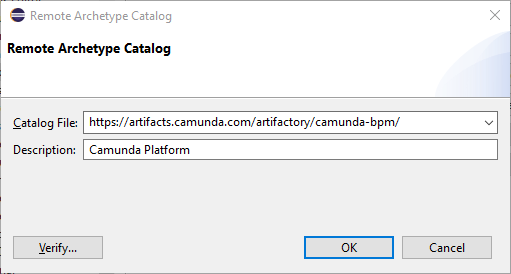
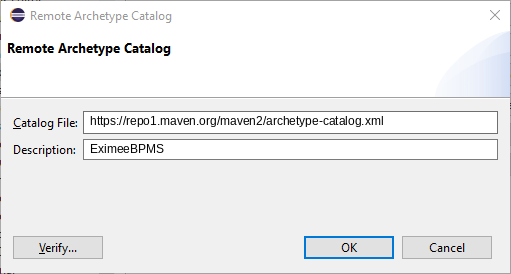
BPMS-577 - Regenerate the maven-archetypes.md Eclipse screenshots

Changed region(s): [[0.1761, 0.4088, 0.7926, 0.4672], [0.1761, 0.5255, 0.3816, 0.5839], [0.9393, 0.438, 0.9687, 0.4672]]

diff --git a/manual/content/user-guide/process-applications/maven-archetypes.md b/manual/content/user-guide/process-applications/maven-archetypes.md
@@ -102,7 +102,7 @@ Now you should be able to use the archetypes when creating a new Maven project i
 3. Select the archetype from the catalog that you created before.
 {{< img src="../img/eclipse-04-select-archetype-from-catalog.png" title="Eclipse: Select Maven archetype from catalog" >}}
 4. Specify Maven coordinates and EximeeBPMS version and finish the project creation.
-{{< img src="../img/eclipse-05-specify-maven-coordinates-and-camunda-version.png" title="Eclipse: Specify Maven coordinates and Camunda version" >}}
+{{< img src="../img/eclipse-05-specify-maven-coordinates-and-eximeebpms-version.png" title="Eclipse: Specify Maven coordinates and EximeeBPMS version" >}}
 
 The resulting project should look like this:
 
